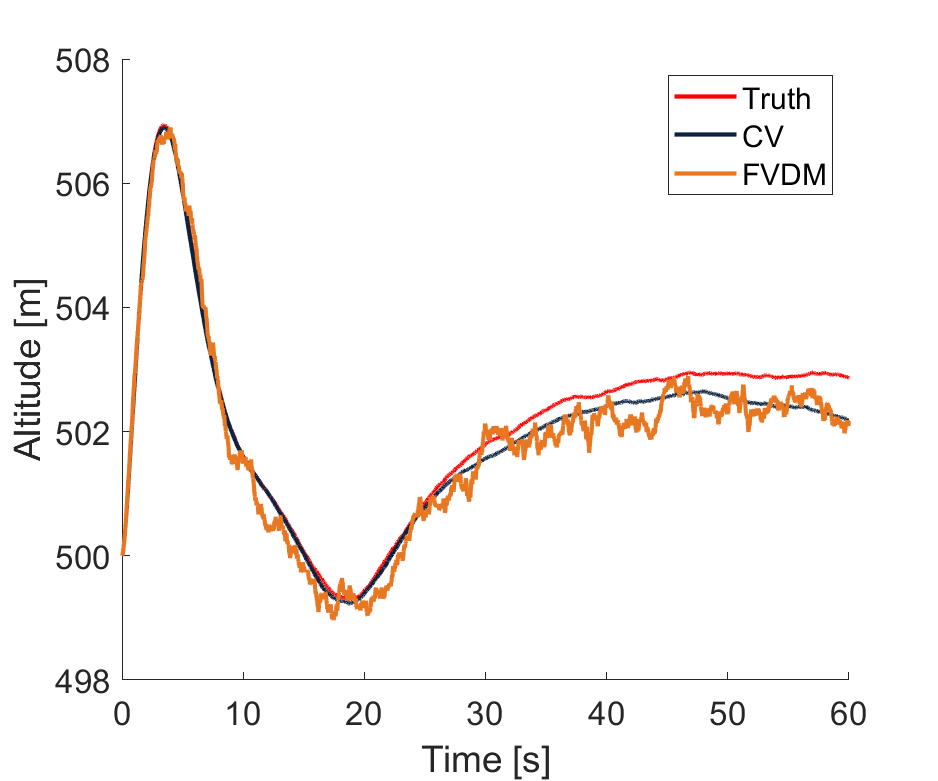
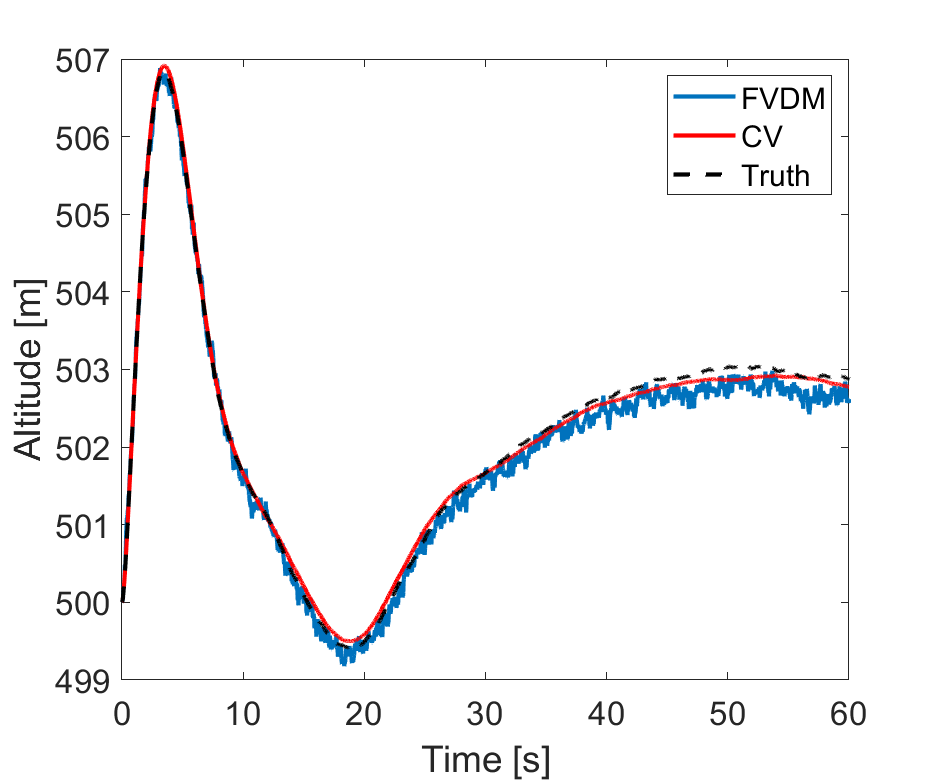
extended results added

diff --git a/ScenarioImplementationAndResults.tex b/ScenarioImplementationAndResults.tex
@@ -33,6 +33,10 @@ It is assumed that the receiver knows it position beforehand when the simulation
         5    & 20                \\
         6    & 18                \\
         7    & 16                \\
+        8    & 15                \\
+        9    & 10                \\
+        10    & 5                \\
+        11    & 2                \\
         \bottomrule
     \end{tabular}
 \end{table}
@@ -59,7 +63,7 @@ From Table~\ref{tbl:trajectory}, several parameters are configurable to meet the
         Initial Position         & \(\left[0.65617, \; -2.1376, \; 500\right]\)        & \(\left[rad, \; rad, \; m\right]\) \\
         Initial Attitude         & \(\left[0, \; 0, \; 0\right]\)                      & \(rad\)                            \\
         Initial Clock Terms      & \(\left[0, \; 0\right]\)                            & \(\left[m, \; m/s\right]\)         \\
-        Channel \(C/N_0\)        & \(45,\,35,\,25,\,22,\,20,\,18,\,16\)                & dB-Hz                              \\
+        Channel \(C/N_0\)        & \(45,\,35,\,25,\,22,\,20,\,18,\,16,\,15,\,10,\,5,\,2\)                & dB-Hz                              \\
 
         \bottomrule
     \end{tabular}
